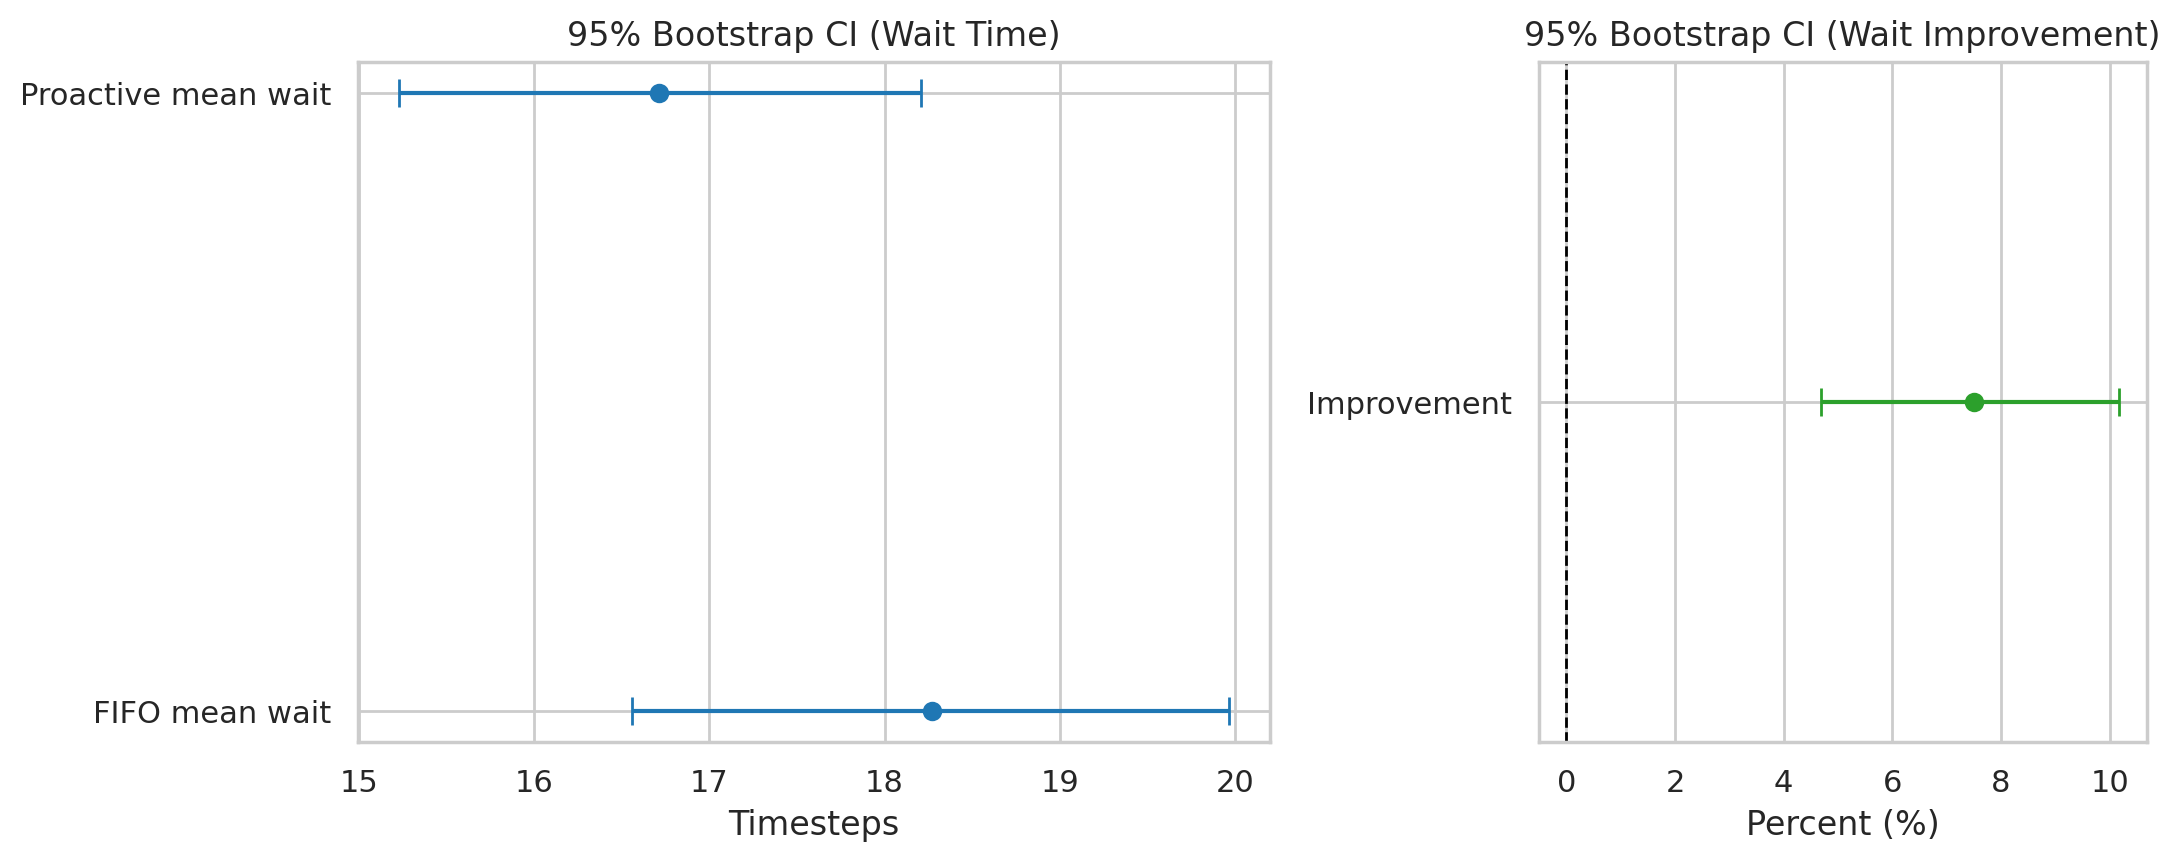
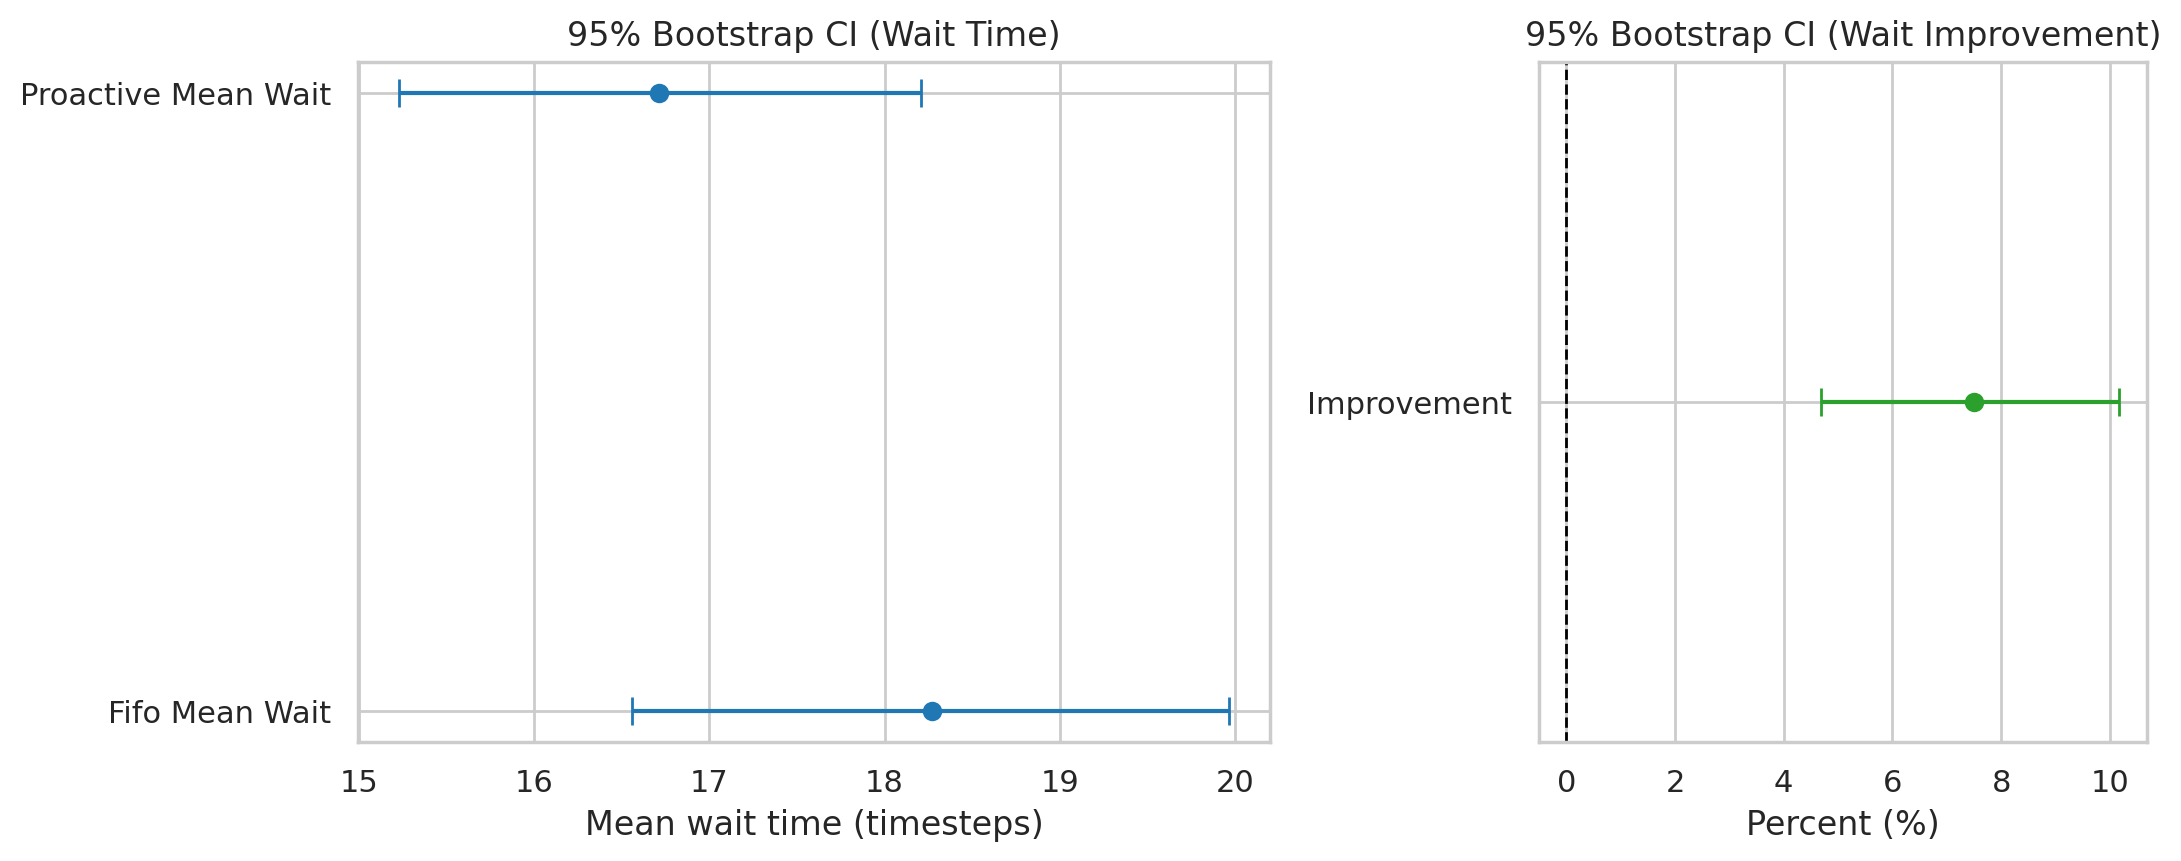
Finalize Phase 22 statistical outputs and plotting
Agent-Logs-Url: https://github.com/rakshit-737/proactive-feasibility-scheduler/sessions/ed64dd85-0d93-4280-844e-a10a1a59fbf5

diff --git a/phases_22_30/phase_22_stats/stats_bootstrap.py b/phases_22_30/phase_22_stats/stats_bootstrap.py
@@ -1,5 +1,6 @@
 import os
 import pickle
+import warnings
 
 import matplotlib
 import matplotlib.pyplot as plt
@@ -26,6 +27,8 @@ DATA_CANDIDATES = [
 BASELINE_KEYS = ["baseline_wait", "fifo_avg_wait", "fifo_wait", "fifo_mean_wait"]
 PROACTIVE_KEYS = ["proactive_wait", "proactive_avg_wait", "proactive_wait_time", "proactive_mean_wait"]
 IMPROVEMENT_KEYS = ["improvement_pct", "improvement_percent", "pct_improvement"]
+# Fixed seed keeps bootstrap CI values reproducible across runs.
+BOOTSTRAP_SEED = 42
 
 
 def _first_present(df, keys):
@@ -110,7 +113,8 @@ def load_benchmark_data():
     return result, optional_pairs, chosen
 
 
-def bootstrap_mean_ci(values, n_bootstrap=10000, ci=0.95, seed=42):
+def bootstrap_mean_ci(values, n_bootstrap=10000, ci=0.95, seed=BOOTSTRAP_SEED):
+    """Return percentile bootstrap CI bounds for the sample mean."""
     values = np.asarray(values, dtype=float)
     if values.size == 0:
         raise ValueError("Cannot bootstrap empty data.")
@@ -144,6 +148,7 @@ def benjamini_hochberg(pvalues):
 
 
 def paired_tests(df, optional_pairs):
+    """Run two-tailed paired t-tests for wait time and optional paired metrics."""
     tests = [
         (
             "wait_time",
@@ -160,6 +165,11 @@ def paired_tests(df, optional_pairs):
     for metric, baseline, proactive in tests:
         t_stat, p_raw = stats.ttest_rel(baseline, proactive, alternative="two-sided")
         if np.isnan(t_stat) or np.isnan(p_raw):
+            warnings.warn(
+                f"Paired t-test produced NaN for '{metric}'. Falling back to t_stat=0.0, p_value=1.0.",
+                RuntimeWarning,
+                stacklevel=2,
+            )
             t_stat, p_raw = 0.0, 1.0
         stats_rows.append({"metric": metric, "t_stat": float(t_stat), "p_value_raw": float(p_raw)})
         raw_pvalues.append(float(p_raw))
@@ -173,6 +183,7 @@ def paired_tests(df, optional_pairs):
 
 
 def build_summary(df, test_rows):
+    """Assemble CSV-ready summary rows with CI bounds and corrected p-values."""
     fifo_ci_low, fifo_ci_high = bootstrap_mean_ci(df["baseline_wait"].to_numpy())
     proactive_ci_low, proactive_ci_high = bootstrap_mean_ci(df["proactive_wait"].to_numpy())
     improve_ci_low, improve_ci_high = bootstrap_mean_ci(df["improvement_pct"].to_numpy())
@@ -236,6 +247,7 @@ def build_summary(df, test_rows):
 
 
 def plot_confidence_intervals(summary_df):
+    """Create and save Phase 22 CI forest-style plots for key wait metrics."""
     sns.set_theme(style="whitegrid")
     wait_rows = summary_df[summary_df["metric"].isin(["fifo_mean_wait", "proactive_mean_wait"])].copy()
     imp_row = summary_df[summary_df["metric"] == "wait_improvement_pct"].iloc[0]
@@ -249,9 +261,10 @@ def plot_confidence_intervals(summary_df):
     xerr = np.vstack((means - lower, upper - means))
 
     axes[0].errorbar(means, y_positions, xerr=xerr, fmt="o", capsize=5, color="#1f77b4")
+    metric_labels = [label.replace("_", " ").title() for label in wait_rows["metric"]]
     axes[0].set_yticks(y_positions)
-    axes[0].set_yticklabels(["FIFO mean wait", "Proactive mean wait"])
-    axes[0].set_xlabel("Timesteps")
+    axes[0].set_yticklabels(metric_labels)
+    axes[0].set_xlabel("Mean wait time (timesteps)")
     axes[0].set_title("95% Bootstrap CI (Wait Time)")
 
     mean_imp = imp_row["mean"]
@@ -277,6 +290,7 @@ def plot_confidence_intervals(summary_df):
 
 
 def main():
+    """Execute Phase 22 analysis and write CSV/plot outputs to this directory."""
     os.makedirs(SCRIPT_DIR, exist_ok=True)
     df, optional_pairs, source_path = load_benchmark_data()
     test_rows = paired_tests(df, optional_pairs)
